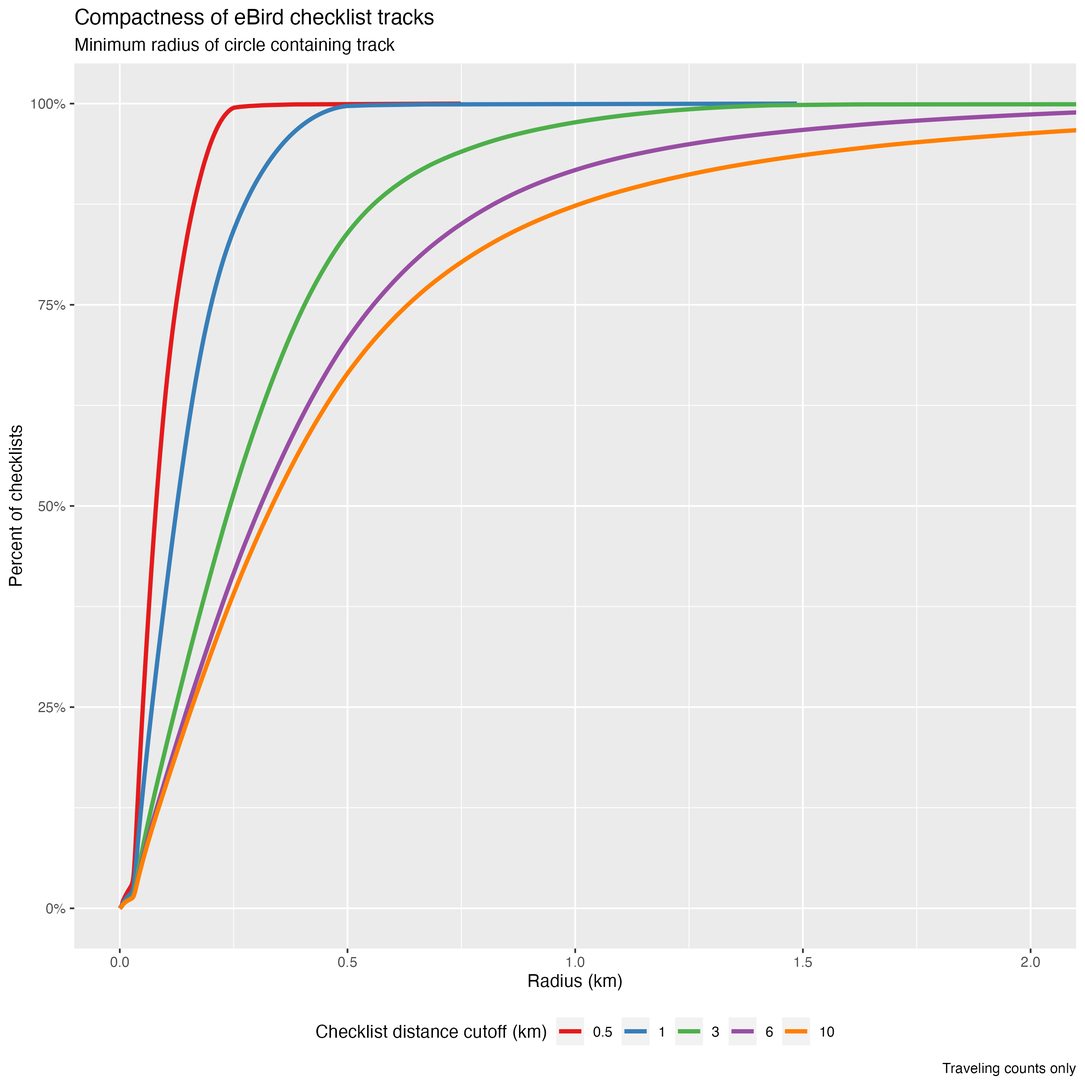
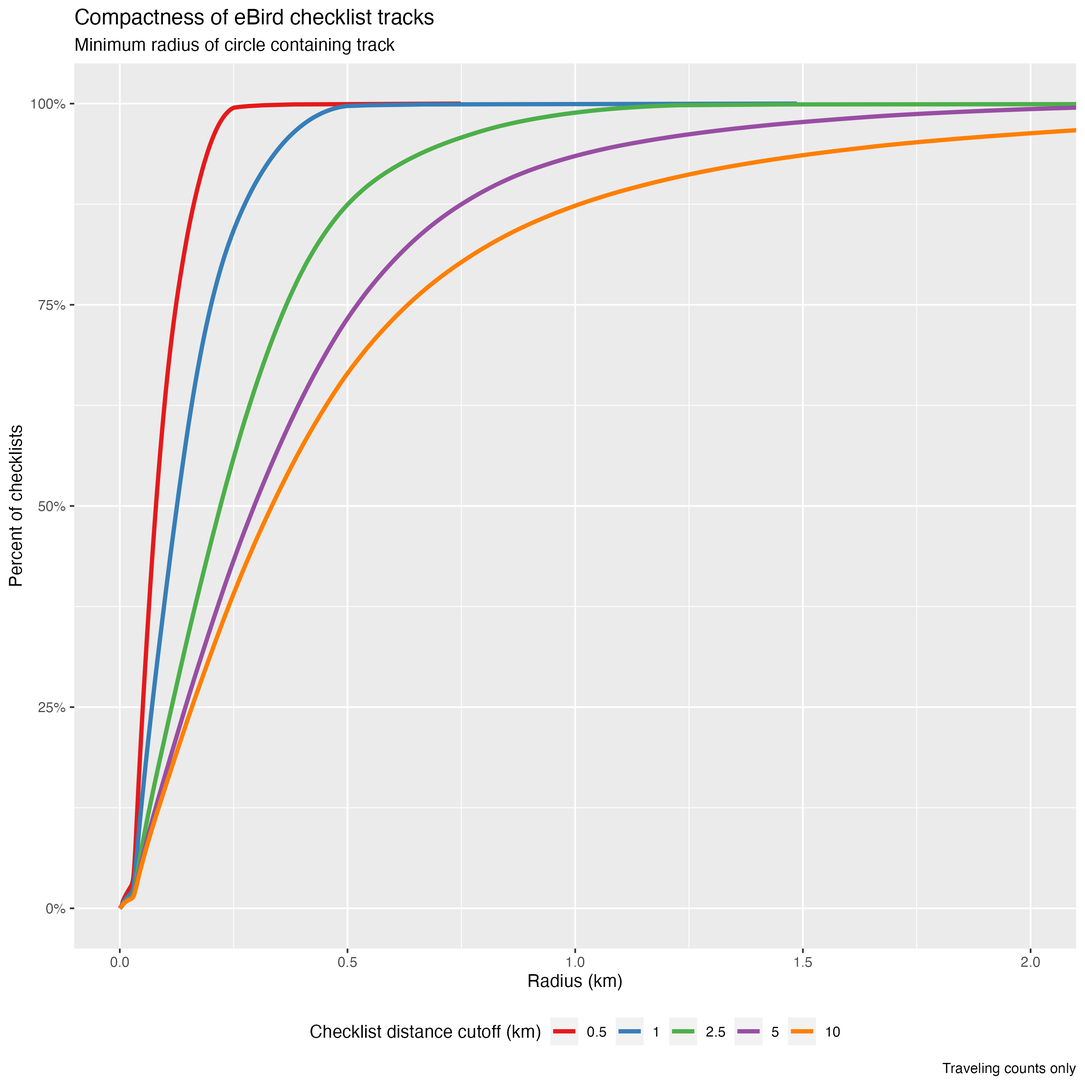
env vars

diff --git a/docs/ebird.html b/docs/ebird.html
@@ -300,7 +300,13 @@ Tip
 <h2 data-number="2.3" class="anchored" data-anchor-id="sec-ebird-download"><span class="header-section-number">2.3</span> Downloading data</h2>
 <p>eBird data are typically distributed in two parts: observation data and checklist data. In the observation dataset, each row corresponds to the sighting of a single species on a checklist, including the count and any other species-level information (e.g.&nbsp;age, sex, species comments, etc.). In the checklist dataset, each row corresponds to a checklist, including the date, time, location, effort (e.g.&nbsp;distance traveled, time spent, etc.), and any additional checklist-level information (e.g.&nbsp;whether this is a complete checklist or not). The two datasets can be joined together using a unique checklist identifier (sometimes referred to as the sampling event identifier).</p>
 <p>The observation and checklist data are released as tab-separated text files referred to as the <em>eBird Basic Dataset (EBD)</em> and the <em>Sampling Event Data (SED)</em>, respectively. These files are released monthly and contain all validated bird sightings in the eBird database at the time of release. Both of these datasets can be downloaded in their entirety or a subset for a given species, region, or time period can be requested via the <em>Custom Download</em> form. We strongly recommend against attempting to download the complete EBD since it’s well over 100GB at the time of writing. Instead, we will demonstrate a workflow using the Custom Download approach. In what follows, we will assume you have followed the instructions for requesting access to eBird data outlined in <a href="./intro.html#sec-intro-setup-ebird">the previous chapter</a>.</p>
-<p>In the interest of making examples concrete, throughout this guide, we’ll use the specific example of <a href="https://ebird.org/species/woothr">Wood Thrush</a> observations from Georgia (the US state, not the country) in June for our analyses. We’ll start by downloading the corresponding eBird observation (EBD) and checklist (SED) data by visiting the <a href="https://ebird.org/data/download/ebd">eBird Basic Dataset</a> download page and filling out the Custom Download form to request Wood Thrush observations from Georgia. <strong>Make sure you check the box “Include sampling event data”</strong>, which will include the SED in the data download in addition to the EBD.</p>
+<div class="quarto-figure quarto-figure-center">
+<figure class="figure">
+<p><img src="images/woothr_60255811.jpg" class="img-fluid figure-img"></p>
+<figcaption class="figure-caption">Wood Thrush © Veronica Araya Garcia, Macaulay Library (ML60255811)</figcaption>
+</figure>
+</div>
+<p>In the interest of making examples concrete, throughout this guide, we’ll focus on moedeling the distribution of <a href="https://ebird.org/species/woothr">Wood Thrush</a> in Georgia (the US state, not the country) in June. Wood Thrush breed in deciduous forests of the eastern United States. We’ll start by downloading the corresponding eBird observation (EBD) and checklist (SED) data by visiting the <a href="https://ebird.org/data/download/ebd">eBird Basic Dataset</a> download page and filling out the Custom Download form to request Wood Thrush observations from Georgia. <strong>Make sure you check the box “Include sampling event data”</strong>, which will include the SED in the data download in addition to the EBD.</p>
 <p><img src="images/ebird-data_download.png" class="img-fluid"></p>
 <p>Once the data are ready, you will receive an email with a download link. The downloaded data will be in a compressed .zip format, and should be unarchived. The resulting directory will contain a two text files: one for the EBD (e.g.&nbsp;<code>ebd_US-GA_woothr_smp_relJun-2023.txt</code>) containing all the Wood Thrush observations from Georgia and one for the SED (e.g.&nbsp;<code>ebd_US-GA_woothr_smp_relJun-2023_sampling.txt</code>) containing all checklists from Georgia. The <code>relJune-2023</code> component of the file name describes which version of the EBD this dataset came from; in this case it’s the June 2023 release.</p>
 </section>
@@ -393,7 +399,7 @@ Solution
 </div>
 <div id="callout-4" class="callout-4-contents callout-collapse collapse">
 <div class="callout-body-container callout-body">
-<p>More than 95% of checklists are less than 10km in length; however, some checklists are as long as 80km in length. Long traveling checklists have lower spatial precision so they should generally be removed prior to analysis.</p>
+<p>More than 95% of checklists are less than 10 km in length; however, some checklists are as long as 80 km in length. Long traveling checklists have lower spatial precision so they should generally be removed prior to analysis.</p>
 <div class="cell" data-layout-align="center">
 <div class="sourceCode cell-code" id="cb2"><pre class="sourceCode r code-with-copy"><code class="sourceCode r"><span id="cb2-1"><a href="#cb2-1" aria-hidden="true" tabindex="-1"></a>checklists_traveling <span class="ot">&lt;-</span> <span class="fu">filter</span>(checklists, protocol_type <span class="sc">==</span> <span class="st">"Traveling"</span>)</span>
 <span id="cb2-2"><a href="#cb2-2" aria-hidden="true" tabindex="-1"></a><span class="fu">ggplot</span>(checklists_traveling) <span class="sc">+</span></span>
@@ -711,7 +717,7 @@ Tip
 </section>
 <section id="sec-ebird-effort" class="level2" data-number="2.7">
 <h2 data-number="2.7" class="anchored" data-anchor-id="sec-ebird-effort"><span class="header-section-number">2.7</span> Accounting for variation in effort</h2>
-<p>As discussed in the <a href="./intro.html#sec-intro-intro">Introduction</a>, variation in effort between checklists makes inference challenging, because it is associated with variation in detectability. When working with semi-structured datasets like eBird, one approach to dealing with this variation is to impose some more consistent structure on the data by filtering observations on the effort variables. This reduces the variation in detectability between checklists. Based on our experience working with these data in the context of eBird Status and Trends, we suggest restricting checklists to traveling or stationary counts less than 6 hours in duration and 10km in length, at speeds below 100km/h, and with 10 or fewer observers.</p>
+<p>As discussed in the <a href="./intro.html#sec-intro-intro">Introduction</a>, variation in effort between checklists makes inference challenging, because it is associated with variation in detectability. When working with semi-structured datasets like eBird, one approach to dealing with this variation is to impose some more consistent structure on the data by filtering observations on the effort variables. This reduces the variation in detectability between checklists. Based on our experience working with these data in the context of eBird Status and Trends, we suggest restricting checklists to traveling or stationary counts less than 6 hours in duration and 10 km in length, at speeds below 100km/h, and with 10 or fewer observers.</p>
 <div class="cell" data-layout-align="center">
 <div class="sourceCode cell-code" id="cb11"><pre class="sourceCode r code-with-copy"><code class="sourceCode r"><span id="cb11-1"><a href="#cb11-1" aria-hidden="true" tabindex="-1"></a><span class="co"># additional filtering</span></span>
 <span id="cb11-2"><a href="#cb11-2" aria-hidden="true" tabindex="-1"></a>zf_filtered <span class="ot">&lt;-</span> zf <span class="sc">%&gt;%</span> </span>
@@ -780,7 +786,7 @@ Solution
 <p><img src="images/precision_location-error.png" class="img-fluid"></p>
 <p>As a proxy for checklist compactness, we calculated the minimum radius of a circle fully containing the GPS track of each checklist. Again, we plot the cumulative distribution of this compactness measure for different maximum checklist distances.</p>
 <p><img src="images/precision_compactness.png" class="img-fluid"></p>
-<p>For the specific example of checklists with distances less than 6 km (the cutoff applied above), 92% of traveling checklists are contained within a 1 km radius circle and 77% of traveling checklists have location error less than 500 m. This will inform the spatial scale that we use to make predictions in the <a href="./envvar.html#sec-envvar-pred">next chapter</a>. Depending on the precision required for your application, you can use the above plots to adjust the checklist effort filters to control spatial precision.</p>
+<p>For the specific example of checklists with distances less than 10 km (the cutoff applied above), 94% of traveling checklists are contained within a 1.5 km radius circle and 74% of traveling checklists have location error less than 500 m. This will inform the spatial scale that we use to make predictions in the <a href="./envvar.html#sec-envvar-pred">next chapter</a>. Depending on the precision required for your application, you can use the above plots to adjust the checklist effort filters to control spatial precision.</p>
 </section>
 </section>
 <section id="sec-ebird-testtrain" class="level2" data-number="2.8">
@@ -952,7 +958,7 @@ Solution
 <span id="cb17-20"><a href="#cb17-20" aria-hidden="true" tabindex="-1"></a>  <span class="fu">geom_point</span>() <span class="sc">+</span></span>
 <span id="cb17-21"><a href="#cb17-21" aria-hidden="true" tabindex="-1"></a>  <span class="fu">scale_x_continuous</span>(<span class="at">breaks =</span> breaks) <span class="sc">+</span></span>
 <span id="cb17-22"><a href="#cb17-22" aria-hidden="true" tabindex="-1"></a>  <span class="fu">scale_y_continuous</span>(<span class="at">labels =</span> scales<span class="sc">::</span>comma) <span class="sc">+</span></span>
-<span id="cb17-23"><a href="#cb17-23" aria-hidden="true" tabindex="-1"></a>  <span class="fu">labs</span>(<span class="at">x =</span> <span class="st">"Checklist duration (hours)"</span>,</span>
+<span id="cb17-23"><a href="#cb17-23" aria-hidden="true" tabindex="-1"></a>  <span class="fu">labs</span>(<span class="at">x =</span> <span class="st">"Checklist duration [hours]"</span>,</span>
 <span id="cb17-24"><a href="#cb17-24" aria-hidden="true" tabindex="-1"></a>       <span class="at">y =</span> <span class="st">"# checklists"</span>,</span>
 <span id="cb17-25"><a href="#cb17-25" aria-hidden="true" tabindex="-1"></a>       <span class="at">title =</span> <span class="st">"Distribution of checklist durations"</span>)</span>
 <span id="cb17-26"><a href="#cb17-26" aria-hidden="true" tabindex="-1"></a></span>
@@ -963,7 +969,7 @@ Solution
 <span id="cb17-31"><a href="#cb17-31" aria-hidden="true" tabindex="-1"></a>  <span class="fu">geom_point</span>() <span class="sc">+</span></span>
 <span id="cb17-32"><a href="#cb17-32" aria-hidden="true" tabindex="-1"></a>  <span class="fu">scale_x_continuous</span>(<span class="at">breaks =</span> breaks) <span class="sc">+</span></span>
 <span id="cb17-33"><a href="#cb17-33" aria-hidden="true" tabindex="-1"></a>  <span class="fu">scale_y_continuous</span>(<span class="at">labels =</span> scales<span class="sc">::</span>percent) <span class="sc">+</span></span>
-<span id="cb17-34"><a href="#cb17-34" aria-hidden="true" tabindex="-1"></a>  <span class="fu">labs</span>(<span class="at">x =</span> <span class="st">"Checklist duration (hours)"</span>,</span>
+<span id="cb17-34"><a href="#cb17-34" aria-hidden="true" tabindex="-1"></a>  <span class="fu">labs</span>(<span class="at">x =</span> <span class="st">"Checklist duration [hours]"</span>,</span>
 <span id="cb17-35"><a href="#cb17-35" aria-hidden="true" tabindex="-1"></a>       <span class="at">y =</span> <span class="st">"% checklists with detections"</span>,</span>
 <span id="cb17-36"><a href="#cb17-36" aria-hidden="true" tabindex="-1"></a>       <span class="at">title =</span> <span class="st">"Detection frequency"</span>)</span>
 <span id="cb17-37"><a href="#cb17-37" aria-hidden="true" tabindex="-1"></a></span>
@@ -1005,7 +1011,7 @@ Solution
 <span id="cb18-20"><a href="#cb18-20" aria-hidden="true" tabindex="-1"></a>  <span class="fu">geom_point</span>() <span class="sc">+</span></span>
 <span id="cb18-21"><a href="#cb18-21" aria-hidden="true" tabindex="-1"></a>  <span class="fu">scale_x_continuous</span>(<span class="at">breaks =</span> breaks) <span class="sc">+</span></span>
 <span id="cb18-22"><a href="#cb18-22" aria-hidden="true" tabindex="-1"></a>  <span class="fu">scale_y_continuous</span>(<span class="at">labels =</span> scales<span class="sc">::</span>comma) <span class="sc">+</span></span>
-<span id="cb18-23"><a href="#cb18-23" aria-hidden="true" tabindex="-1"></a>  <span class="fu">labs</span>(<span class="at">x =</span> <span class="st">"Distance travelled (km)"</span>,</span>
+<span id="cb18-23"><a href="#cb18-23" aria-hidden="true" tabindex="-1"></a>  <span class="fu">labs</span>(<span class="at">x =</span> <span class="st">"Distance travelled [km]"</span>,</span>
 <span id="cb18-24"><a href="#cb18-24" aria-hidden="true" tabindex="-1"></a>       <span class="at">y =</span> <span class="st">"# checklists"</span>,</span>
 <span id="cb18-25"><a href="#cb18-25" aria-hidden="true" tabindex="-1"></a>       <span class="at">title =</span> <span class="st">"Distribution of distance travelled"</span>)</span>
 <span id="cb18-26"><a href="#cb18-26" aria-hidden="true" tabindex="-1"></a></span>
@@ -1016,7 +1022,7 @@ Solution
 <span id="cb18-31"><a href="#cb18-31" aria-hidden="true" tabindex="-1"></a>  <span class="fu">geom_point</span>() <span class="sc">+</span></span>
 <span id="cb18-32"><a href="#cb18-32" aria-hidden="true" tabindex="-1"></a>  <span class="fu">scale_x_continuous</span>(<span class="at">breaks =</span> breaks) <span class="sc">+</span></span>
 <span id="cb18-33"><a href="#cb18-33" aria-hidden="true" tabindex="-1"></a>  <span class="fu">scale_y_continuous</span>(<span class="at">labels =</span> scales<span class="sc">::</span>percent) <span class="sc">+</span></span>
-<span id="cb18-34"><a href="#cb18-34" aria-hidden="true" tabindex="-1"></a>  <span class="fu">labs</span>(<span class="at">x =</span> <span class="st">"Distance travelled (km)"</span>,</span>
+<span id="cb18-34"><a href="#cb18-34" aria-hidden="true" tabindex="-1"></a>  <span class="fu">labs</span>(<span class="at">x =</span> <span class="st">"Distance travelled [km]"</span>,</span>
 <span id="cb18-35"><a href="#cb18-35" aria-hidden="true" tabindex="-1"></a>       <span class="at">y =</span> <span class="st">"% checklists with detections"</span>,</span>
 <span id="cb18-36"><a href="#cb18-36" aria-hidden="true" tabindex="-1"></a>       <span class="at">title =</span> <span class="st">"Detection frequency"</span>)</span>
 <span id="cb18-37"><a href="#cb18-37" aria-hidden="true" tabindex="-1"></a></span>

diff --git a/docs/envvar.html b/docs/envvar.html
@@ -407,10 +407,20 @@ gtag('config', 'G-0QV88WCBNB', { 'anonymize_ip': true});
 </table>
 </div>
 </div>
-<p>At this point we could use the MODIS land cover data directly, simply extracting the land cover class for each checklist location. However, we instead advocate summarizing the land cover data within a neighborhood around the checklist locations. As discussed in <a href="intro.html#sec-intro-intro"><span>Section&nbsp;1.1</span></a>, checklist locations are not precise, so it’s more appropriate to use the habitat in the surrounding area, rather than only at the checklist location. More fundamentally, organisms interact with their environment not at a single point, but at the scale of a landscape, so it’s important to include habitat information characterizing a suitably-sized landscape around the observation location. Based on our experience working with eBird data, a 3km diameter circular neighborhood centered on each checklist location is sufficient to account for the spatial precision in the data when the maximum distance of travelling counts has been limited to 10km, while also being a relevant ecological scale for many bird species.</p>
-<p>There are a variety of <strong>landscape metrics</strong> that can be used to characterize the composition (what habitat is available) and configuration (how that habitat is arranged spatially) of landscapes. Many of these metrics can be calculated using the R package <a href="https://r-spatialecology.github.io/landscapemetrics/"><code>landscapemetrics</code></a>. We’ll use two simple metrics to summarize landcover data in this guide: percent landcover, a measure of composition, and edge density, a measure of configuration. For each landcover class, <a href="https://r-spatialecology.github.io/landscapemetrics/reference/lsm_c_cpland.html">percent landcover</a> (abbreviated as <code>pland</code>) is the percent of the landscape that is composed of that class and <a href="https://r-spatialecology.github.io/landscapemetrics/reference/lsm_c_ed.html">edge density</a> (abbreviated as <code>ed</code>) is the total boundary length of all patches of that class per unit area. For a broad range of scenarios, these two metrics are a reliable choice for calculating environmental covariates in distribution modeling.</p>
-<p>We’ll start by finding the full set of unique checklists locations for each year in the eBird data and buffer the points by 1.5km to generate 3km diameter circular neighborhoods centered on each checklist location. Note that the MODIS landcover data are not available for 2022 and 2023, so we use the 2021 layer for 2022-2023 checklists.</p>
-<div class="cell" data-layout-align="center" data-cahce-path="cache" data-hash="cache/envvar-landcover-buffer_e2b6434dbd0442fcbeda728db652268e">
+<p>At this point we could use the MODIS land cover data directly, simply extracting the land cover class for each checklist location. However, we instead advocate summarizing the land cover data within a neighborhood around the checklist locations. As discussed in <a href="intro.html#sec-intro-intro"><span>Section&nbsp;1.1</span></a>, checklist locations are not precise, so it’s more appropriate to use the habitat in the surrounding area, rather than only at the checklist location. More fundamentally, organisms interact with their environment not at a single point, but at the scale of a landscape, so it’s important to include habitat information characterizing a suitably-sized landscape around the observation location. Based on our experience working with eBird data, a 3 km diameter circular neighborhood centered on each checklist location is sufficient to account for the spatial precision in the data when the maximum distance of travelling counts has been limited to 10km, while also being a relevant ecological scale for many bird species.</p>
+<p>There are a variety of <strong>landscape metrics</strong> that can be used to characterize the composition (what habitat is available) and configuration (how that habitat is arranged spatially) of landscapes. Many of these metrics can be calculated using the R package <a href="https://r-spatialecology.github.io/landscapemetrics/"><code>landscapemetrics</code></a>. We’ll use two simple metrics to summarize landcover data in this guide: <strong>percent landcover</strong>, a measure of composition, and <strong>edge density</strong>, a measure of configuration.</p>
+<p>For example, we can consider a simplified landscape with three cover class: forest, grassland, and water. For each landcover class, <a href="https://r-spatialecology.github.io/landscapemetrics/reference/lsm_c_cpland.html">percent landcover</a> (abbreviated as <code>pland</code>) is the percent of the landscape that is composed of that class and <a href="https://r-spatialecology.github.io/landscapemetrics/reference/lsm_c_ed.html">edge density</a> (abbreviated as <code>ed</code>) is the total boundary length of all patches of that class per unit area. For a broad range of scenarios, these two metrics are a reliable choice for calculating environmental covariates in distribution modeling.</p>
+<div class="cell" data-layout-align="center">
+<div class="cell-output-display">
+<div class="quarto-figure quarto-figure-center">
+<figure class="figure">
+<p><img src="envvar_files/figure-html/envvar-landcover-example-1.png" class="img-fluid figure-img"></p>
+</figure>
+</div>
+</div>
+</div>
+<p>We’ll start by finding the full set of unique checklists locations for each year in the eBird data and buffer the points by 1.5km to generate 3 km diameter circular neighborhoods centered on each checklist location. Note that the MODIS landcover data are not available for 2022 and 2023, so we use the 2021 layer for 2022-2023 checklists.</p>
+<div class="cell" data-layout-align="center" data-cahce-path="cache" data-hash="cache/envvar-landcover-buffer_8db81c6a881304c8528e37213b25854a">
 <div class="sourceCode cell-code" id="cb3"><pre class="sourceCode r code-with-copy"><code class="sourceCode r"><span id="cb3-1"><a href="#cb3-1" aria-hidden="true" tabindex="-1"></a><span class="co"># ebird checklist locations</span></span>
 <span id="cb3-2"><a href="#cb3-2" aria-hidden="true" tabindex="-1"></a>checklists <span class="ot">&lt;-</span> <span class="fu">read_csv</span>(<span class="st">"data/checklists-zf_woothr_june_us-ga.csv"</span>) <span class="sc">%&gt;%</span> </span>
 <span id="cb3-3"><a href="#cb3-3" aria-hidden="true" tabindex="-1"></a>  <span class="co"># landcover data not availble for the full period, so we use the closest year</span></span>
@@ -420,7 +430,7 @@ gtag('config', 'G-0QV88WCBNB', { 'anonymize_ip': true});
 <span id="cb3-7"><a href="#cb3-7" aria-hidden="true" tabindex="-1"></a>buffers <span class="ot">&lt;-</span> checklists <span class="sc">%&gt;%</span> </span>
 <span id="cb3-8"><a href="#cb3-8" aria-hidden="true" tabindex="-1"></a>  <span class="co"># identify unique location/year combinations</span></span>
 <span id="cb3-9"><a href="#cb3-9" aria-hidden="true" tabindex="-1"></a>  <span class="fu">distinct</span>(locality_id, year_lc, latitude, longitude) <span class="sc">%&gt;%</span> </span>
-<span id="cb3-10"><a href="#cb3-10" aria-hidden="true" tabindex="-1"></a>  <span class="co"># generate a 3km neighborhoods</span></span>
+<span id="cb3-10"><a href="#cb3-10" aria-hidden="true" tabindex="-1"></a>  <span class="co"># generate a 3 km neighborhoods</span></span>
 <span id="cb3-11"><a href="#cb3-11" aria-hidden="true" tabindex="-1"></a>  <span class="fu">st_as_sf</span>(<span class="at">coords =</span> <span class="fu">c</span>(<span class="st">"longitude"</span>, <span class="st">"latitude"</span>), <span class="at">crs =</span> <span class="dv">4326</span>) <span class="sc">%&gt;%</span> </span>
 <span id="cb3-12"><a href="#cb3-12" aria-hidden="true" tabindex="-1"></a>  <span class="fu">st_buffer</span>(<span class="at">dist =</span> <span class="fu">set_units</span>(<span class="fl">1.5</span>, <span class="st">"km"</span>))</span></code><button title="Copy to Clipboard" class="code-copy-button"><i class="bi"></i></button></pre></div>
 </div>
@@ -463,9 +473,9 @@ gtag('config', 'G-0QV88WCBNB', { 'anonymize_ip': true});
 </section>
 <section id="sec-envvar-elevation" class="level2" data-number="3.3">
 <h2 data-number="3.3" class="anchored" data-anchor-id="sec-envvar-elevation"><span class="header-section-number">3.3</span> Elevation</h2>
-<p>In this section we’ll demonstrate how to assign elevation variables, which frequently play an important role in shaping species distributions. Amatulli et al. <span class="citation" data-cites="amatulliSuiteGlobalCrossscale2018">(<a href="references.html#ref-amatulliSuiteGlobalCrossscale2018" role="doc-biblioref">2018</a>)</span> provide a suite of global, 1km resolution topographic variables designed for use in distribution modeling. A range of variables are available, including elevation, slope, roughness, and many others; we’ll focus on elevation here, but the approach can easily be applied to other variables.</p>
+<p>In this section we’ll demonstrate how to assign elevation variables, which frequently play an important role in shaping species distributions. Amatulli et al. <span class="citation" data-cites="amatulliSuiteGlobalCrossscale2018">(<a href="references.html#ref-amatulliSuiteGlobalCrossscale2018" role="doc-biblioref">2018</a>)</span> provide a suite of global, 1 km resolution topographic variables designed for use in distribution modeling. A range of variables are available, including elevation, slope, roughness, and many others; we’ll focus on elevation here, but the approach can easily be applied to other variables.</p>
 <p>To access the data, visit <a href="http://www.earthenv.org/topography">the website for these data</a>, download the 1 km resolution median elevation product, and save the file (<code>elevation_1KMmd_GMTEDmd.tif</code>) in the <code>data-raw/</code> subdirectory of your RStudio project. If you’re unable to download the data, we’ve also provided a small subset of the data covering our study extent in the <a href="./intro.html#sec-intro-setup-data">data package</a>.</p>
-<p>Analogous to how we assigned landcover variables, we’ll calculate the mean and standard deviation of the elevation within 3km diameter circular neighborhoods centered on each checklist location.</p>
+<p>Analogous to how we assigned landcover variables, we’ll calculate the mean and standard deviation of the elevation within 3 km diameter circular neighborhoods centered on each checklist location.</p>
 <div class="cell" data-layout-align="center">
 <div class="sourceCode cell-code" id="cb6"><pre class="sourceCode r code-with-copy"><code class="sourceCode r"><span id="cb6-1"><a href="#cb6-1" aria-hidden="true" tabindex="-1"></a><span class="co"># elevation raster</span></span>
 <span id="cb6-2"><a href="#cb6-2" aria-hidden="true" tabindex="-1"></a>elevation <span class="ot">&lt;-</span> <span class="fu">rast</span>(<span class="st">"data-raw/elevation_1KMmd_GMTEDmd.tif"</span>)</span>
@@ -509,7 +519,7 @@ gtag('config', 'G-0QV88WCBNB', { 'anonymize_ip': true});
 <span id="cb8-6"><a href="#cb8-6" aria-hidden="true" tabindex="-1"></a>  <span class="fu">filter</span>(state_code <span class="sc">==</span> <span class="st">"US-GA"</span>) <span class="sc">%&gt;%</span> </span>
 <span id="cb8-7"><a href="#cb8-7" aria-hidden="true" tabindex="-1"></a>  <span class="fu">st_transform</span>(<span class="at">crs =</span> laea_crs)</span>
 <span id="cb8-8"><a href="#cb8-8" aria-hidden="true" tabindex="-1"></a></span>
-<span id="cb8-9"><a href="#cb8-9" aria-hidden="true" tabindex="-1"></a><span class="co"># create a raster template covering the region with 3km resolution</span></span>
+<span id="cb8-9"><a href="#cb8-9" aria-hidden="true" tabindex="-1"></a><span class="co"># create a raster template covering the region with 3 km resolution</span></span>
 <span id="cb8-10"><a href="#cb8-10" aria-hidden="true" tabindex="-1"></a>r <span class="ot">&lt;-</span> <span class="fu">rast</span>(study_region, <span class="at">res =</span> <span class="fu">c</span>(<span class="dv">3000</span>, <span class="dv">3000</span>))</span>
 <span id="cb8-11"><a href="#cb8-11" aria-hidden="true" tabindex="-1"></a></span>
 <span id="cb8-12"><a href="#cb8-12" aria-hidden="true" tabindex="-1"></a><span class="co"># fill the raster with 1s inside the study region</span></span>
@@ -521,7 +531,7 @@ gtag('config', 'G-0QV88WCBNB', { 'anonymize_ip': true});
 <span id="cb8-18"><a href="#cb8-18" aria-hidden="true" tabindex="-1"></a>                 <span class="at">overwrite =</span> <span class="cn">TRUE</span>,</span>
 <span id="cb8-19"><a href="#cb8-19" aria-hidden="true" tabindex="-1"></a>                 <span class="at">gdal =</span> <span class="st">"COMPRESS=DEFLATE"</span>)</span></code><button title="Copy to Clipboard" class="code-copy-button"><i class="bi"></i></button></pre></div>
 </div>
-<p>Next, we extract the coordinates of the cell centers from the raster we just created, convert these to <code>sf</code> point features, and buffer these to generate 3km circular neighborhoods.</p>
+<p>Next, we extract the coordinates of the cell centers from the raster we just created, convert these to <code>sf</code> point features, and buffer these to generate 3 km circular neighborhoods.</p>
 <div class="cell" data-layout-align="center" data-hash="cache/envvar-pred-buffer_159b7a4af361de490aee6d42c970d320">
 <div class="sourceCode cell-code" id="cb9"><pre class="sourceCode r code-with-copy"><code class="sourceCode r"><span id="cb9-1"><a href="#cb9-1" aria-hidden="true" tabindex="-1"></a><span class="co"># generate neighborhoods for the prediction grid cell centers</span></span>
 <span id="cb9-2"><a href="#cb9-2" aria-hidden="true" tabindex="-1"></a>buffers_ps <span class="ot">&lt;-</span> <span class="fu">as.data.frame</span>(r, <span class="at">cells =</span> <span class="cn">TRUE</span>, <span class="at">xy =</span> <span class="cn">TRUE</span>) <span class="sc">%&gt;%</span> </span>

diff --git a/docs/encounter.html b/docs/encounter.html
@@ -321,7 +321,7 @@ gtag('config', 'G-0QV88WCBNB', { 'anonymize_ip': true});
 </section>
 <section id="sec-encounter-sss" class="level2" data-number="4.3">
 <h2 data-number="4.3" class="anchored" data-anchor-id="sec-encounter-sss"><span class="header-section-number">4.3</span> Spatiotemporal subsampling</h2>
-<p>As <a href="./intro.html#sec-intro-intro">discussed in the introduction</a>, three of the challenges faced when using eBird data, are <strong>spatial bias</strong>, <strong>temporal bias</strong>, and <strong>class imbalance</strong>. Spatial and temporal bias refers to the tendency of eBird checklists to be distributed non-randomly in space and time, while class imbalance is the phenomenon that there are many more non-detections than detections for most species. All three can impact our ability to make reliable inferences from these data. Fortunately, all three can largely be addressed through subsampling the eBird data prior to modeling. In particular, we define an equal area, 3km by 3km square grid across the study region, then subsample detections and non-detections independently from the grid to ensure that we don’t lose too many detections. To address temporal bias, we’ll sample one detection and one non-detection checklist from each grid cell for each week of each year. Fortunately, the package <code>ebirdst</code> has a function <code>grid_sample_stratified()</code> that is specifically design to perform this type of sampling on eBird checklist data.</p>
+<p>As <a href="./intro.html#sec-intro-intro">discussed in the introduction</a>, three of the challenges faced when using eBird data, are <strong>spatial bias</strong>, <strong>temporal bias</strong>, and <strong>class imbalance</strong>. Spatial and temporal bias refers to the tendency of eBird checklists to be distributed non-randomly in space and time, while class imbalance is the phenomenon that there are many more non-detections than detections for most species. All three can impact our ability to make reliable inferences from these data. Fortunately, all three can largely be addressed through subsampling the eBird data prior to modeling. In particular, we define an equal area, 3 km by 3 km square grid across the study region, then subsample detections and non-detections independently from the grid to ensure that we don’t lose too many detections. To address temporal bias, we’ll sample one detection and one non-detection checklist from each grid cell for each week of each year. Fortunately, the package <code>ebirdst</code> has a function <code>grid_sample_stratified()</code> that is specifically design to perform this type of sampling on eBird checklist data.</p>
 <p>Before working with the real data, it’s instructive to look at a simple toy example, to see how this subsampling process works.</p>
 <div class="cell" data-layout-align="center">
 <div class="sourceCode cell-code" id="cb2"><pre class="sourceCode r code-with-copy"><code class="sourceCode r"><span id="cb2-1"><a href="#cb2-1" aria-hidden="true" tabindex="-1"></a><span class="co"># generate random points for a single week of the year</span></span>
